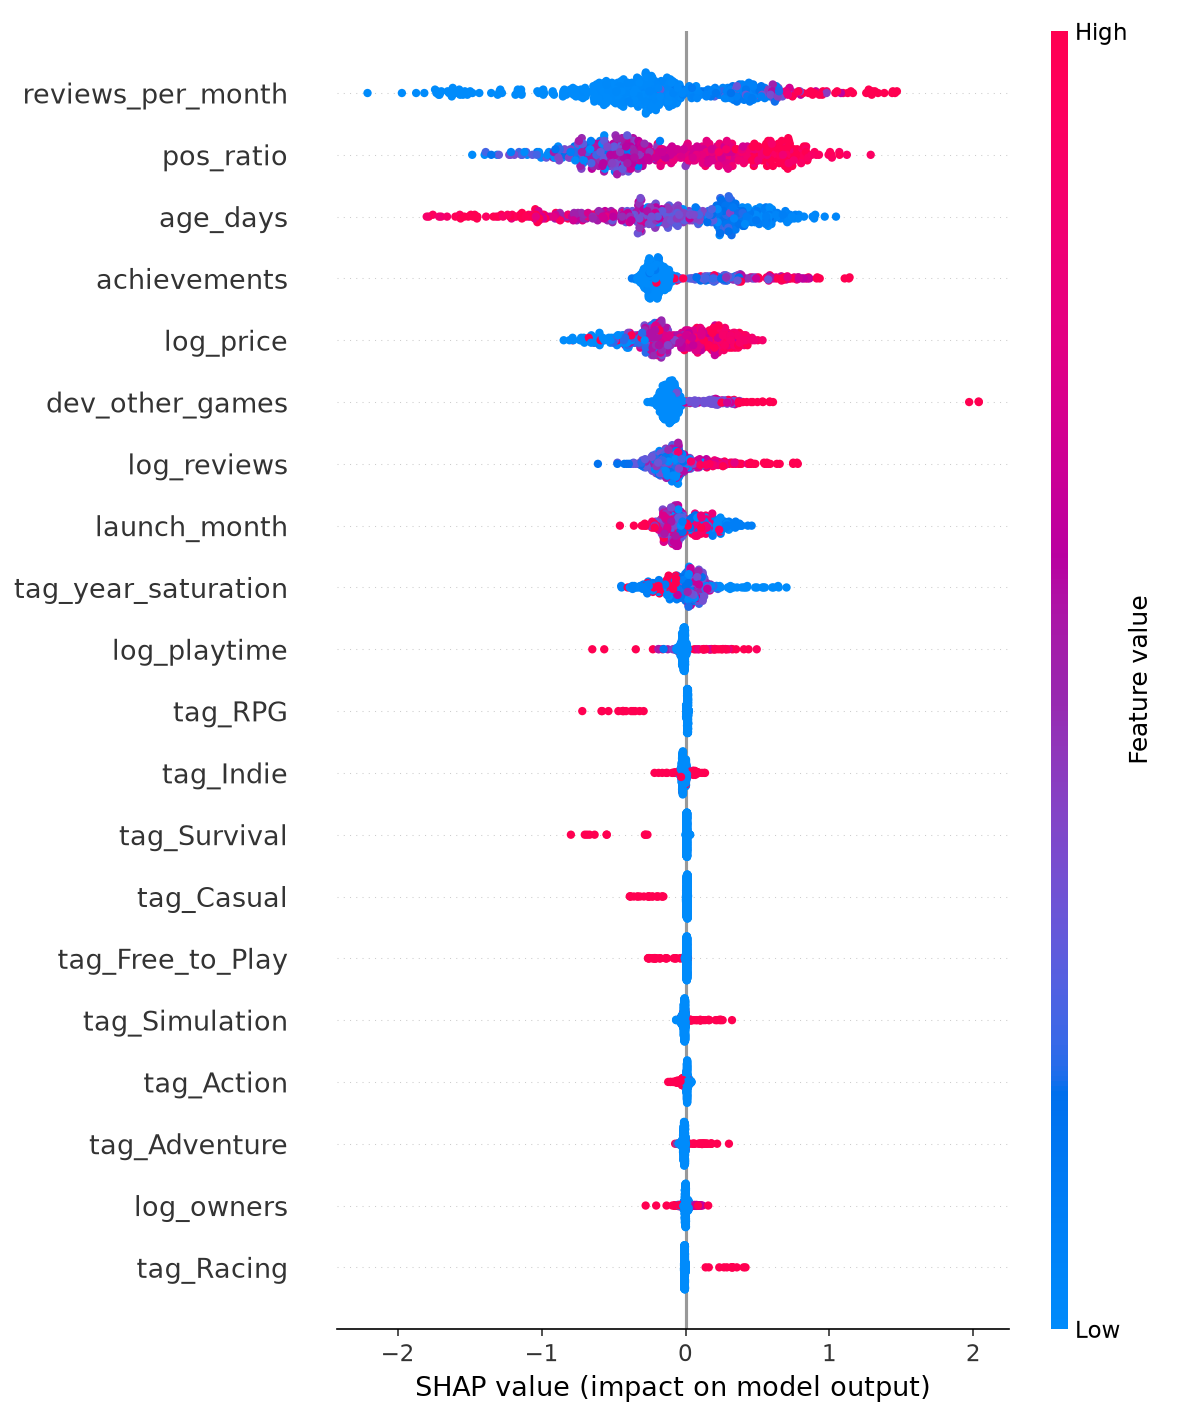
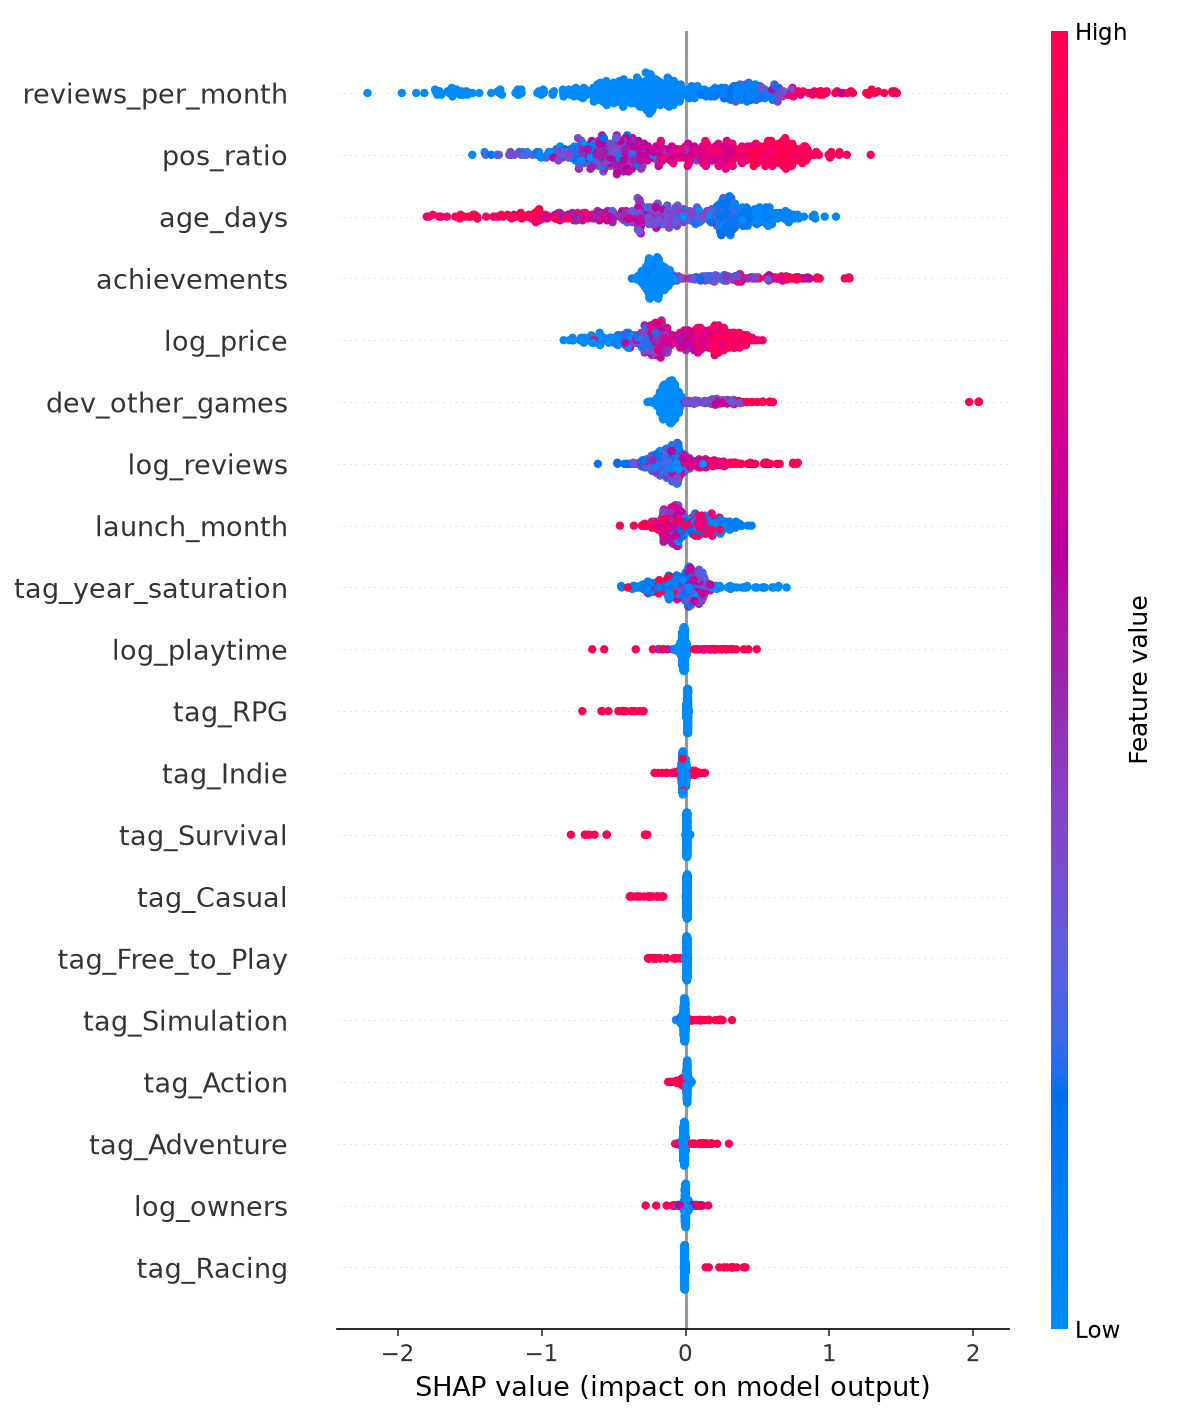
Add LightGBM; update results and README

Changed region(s): [[0.4317, 0.0618, 0.6783, 0.247], [0.5242, 0.2779, 0.6167, 0.4323], [0.555, 0.5249, 0.5858, 0.5558]]

diff --git a/ea_pipeline_v2.py b/ea_pipeline_v2.py
@@ -16,7 +16,7 @@ Usage:
 !! Column names below are from memory of the Kaggle files. Open both CSVs, check the
 !! headers, and fix OLD_COLS / NEW_COLS before running on real data.
 """
-import argparse, os, warnings
+import argparse, os, re, warnings
 import numpy as np, pandas as pd
 import matplotlib
 matplotlib.use("Agg")
@@ -30,6 +30,11 @@ from sklearn.ensemble import RandomForestClassifier
 from sklearn.preprocessing import StandardScaler
 from sklearn.metrics import roc_auc_score, average_precision_score, f1_score
 from xgboost import XGBClassifier
+try:
+    from lightgbm import LGBMClassifier
+except ImportError:
+    LGBMClassifier = None
+    print('WARNING: lightgbm not installed (pip install lightgbm) - LightGBM will be skipped')
 from lifelines import CoxPHFitter, KaplanMeierFitter
 from lifelines.statistics import proportional_hazard_test
 import shap
@@ -132,7 +137,7 @@ def build_features(ea, old, old_date):
     # top-10 tags as binary columns
     top = df["main_tag"].value_counts().head(10).index
     for t in top:
-        df["tag_" + str(t).replace(" ", "_")] = (df["main_tag"] == t).astype(int)
+        df["tag_" + re.sub(r"[^0-9A-Za-z_]", "_", str(t))] = (df["main_tag"] == t).astype(int)
 
     feats = ["age_days", "log_price", "log_owners", "log_reviews", "pos_ratio", "reviews_per_month",
              "log_playtime", "achievements", "launch_month", "dev_other_games", "tag_year_saturation"] \
@@ -142,13 +147,18 @@ def build_features(ea, old, old_date):
 
 # ============================== 3. MODELS ==============================================
 def make_models(pos_weight):
-    return {
+    models = {
         "LogReg": make_pipeline(StandardScaler(), LogisticRegression(max_iter=2000, class_weight="balanced")),
         "RandomForest": RandomForestClassifier(400, min_samples_leaf=3, class_weight="balanced", random_state=42),
         "XGBoost": XGBClassifier(n_estimators=300, max_depth=4, learning_rate=0.05, subsample=0.8,
                                  colsample_bytree=0.8, scale_pos_weight=pos_weight,
                                  eval_metric="logloss", random_state=42),
     }
+    if LGBMClassifier is not None:
+        models["LightGBM"] = LGBMClassifier(n_estimators=300, max_depth=4, num_leaves=15, learning_rate=0.05,
+                                            subsample=0.8, subsample_freq=1, colsample_bytree=0.8,
+                                            scale_pos_weight=pos_weight, random_state=42, verbose=-1, n_jobs=-1)
+    return models
 
 
 def cv_eval(X, y, tag):
